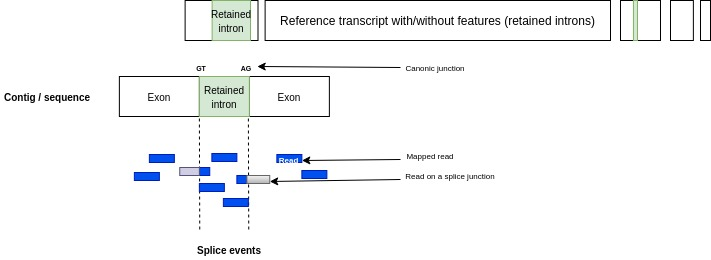
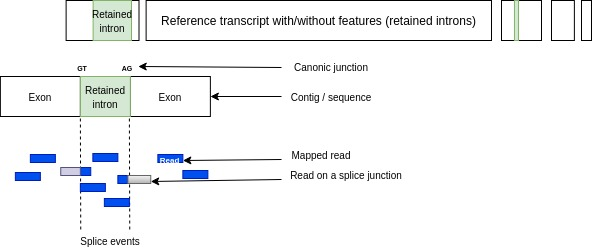
update report wit glossary img

diff --git a/scripts/simulation2HTMLtags.py b/scripts/simulation2HTMLtags.py
@@ -469,6 +469,7 @@ def get_html_glossary():
                 <strong>Bioinformatic Worflow</strong><br>
                 <img src="https://forgemia.inra.fr/emilien.lasguignes/intronSeeker/-/raw/master/doc/IntronSeekerDiagram-Workflow_intronSeeker.jpg" alt="intronSeeker workflow" style="width:825;height:245;"> </br>
                 <br><br><strong>Biological glossary</strong><br>
+                <img src="https://forgemia.inra.fr/emilien.lasguignes/intronSeeker/-/raw/master/doc/IntronSeekerDiagram-GLOSSARY.jpg" alt="intronSeeker glossary" style="width:825;height:245;"> </br>
                 
                 Contig :  A contig (from contiguous) is a set of overlapping DNA segments that together represent a consensus region of DNA (source :Wikipedia)</br>
                 Candidat : </br>

diff --git a/scripts/simulation2HTML.py b/scripts/simulation2HTML.py
@@ -237,8 +237,8 @@ def simulationReport(   fasta:str, mfasta:str, gtf:str, r1:str, r2:str, ranks:st
         #mapping_bam=pd.read_pickle(process_bam(parse_BAM(bam_file), df_mfasta, df_features, df_library))
         df_cov.loc[lambda df : df.covering != True, "covering"] = False #test
         print('df_cov', df_cov.head(5))
-        mapping_bam=pd.read_pickle(process_bam(parse_BAM(bam_file), df_mfasta, df_features, df_cov))
-        print('mapping_bam',mapping_bam)
+        #mapping_bam=pd.read_pickle(process_bam(parse_BAM(bam_file), df_mfasta, df_features, df_cov))
+        #print('mapping_bam',mapping_bam)
         #html += get_html_split(mapping_bam)
         #html += get_html_mapping_descr(parse_BAM(bam_file))
 
